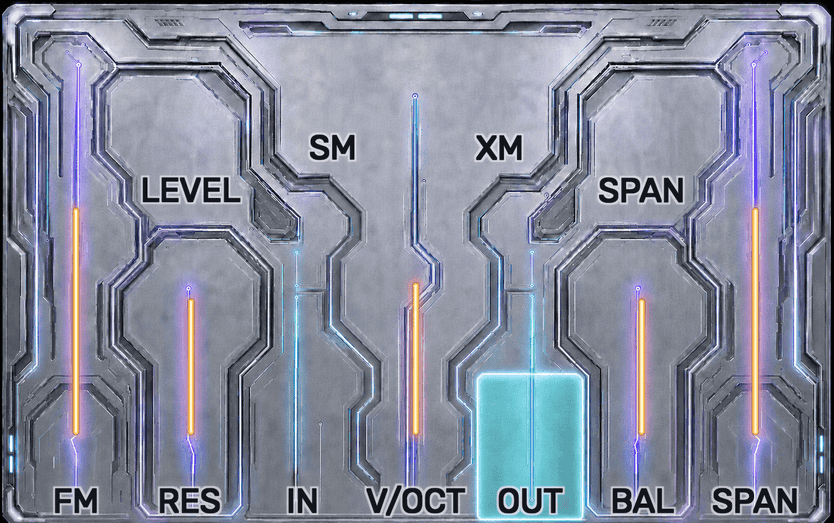
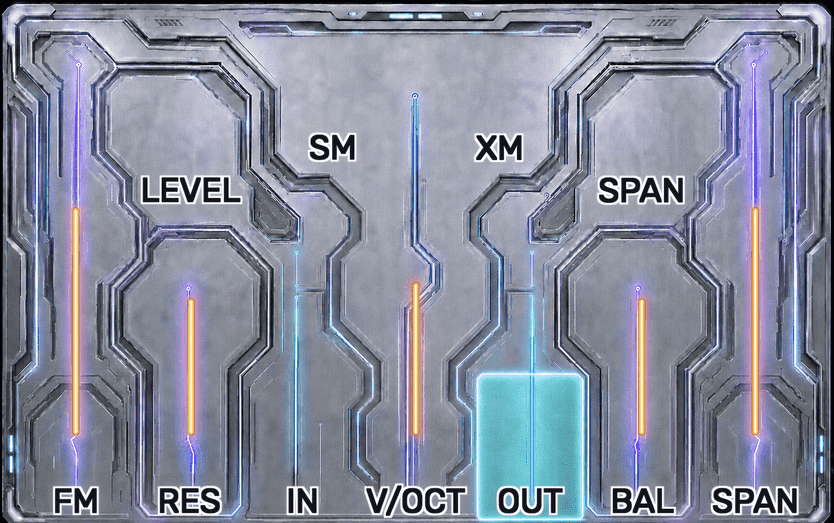
Rework more Chimera panel, add unsplice (seems broken), make bifurx-lb outline brighter

diff --git a/src/Chimera.cpp b/src/Chimera.cpp
@@ -745,6 +745,13 @@ struct Chimera : Module {
         ioBusy.store(true, std::memory_order_release);
         return true;
     }
+    bool requestUnsplice(std::string& error) {
+        std::lock_guard<std::recursive_mutex> controlLock(controlMutex);
+        const unsigned next = publishedRegion.load(std::memory_order_acquire) + 1u;
+        if (next >= publishedMarkerCount.load(std::memory_order_acquire))
+            return true; // The final Splice has no following boundary to remove.
+        return requestMarkerEdit(next, 0, 1u, error);
+    }
     bool requestEdit(const chimera::edit::Request& request, std::string& error) {
         std::lock_guard<std::recursive_mutex> controlLock(controlMutex);
         if (request.kind == chimera::edit::MoveMarker || request.kind == chimera::edit::RemoveMarker)
@@ -1946,6 +1953,9 @@ struct Chimera : Module {
     }
 };
 
+#include "ChimeraDisplay.hpp"
+
+#ifndef CHIMERA_HEADLESS_TEST
 struct ChimeraRatioField : ui::TextField {
     Chimera* owner = nullptr;
     int slot = 0;
@@ -1969,7 +1979,23 @@ struct ChimeraRatioField : ui::TextField {
     }
 };
 
-#include "ChimeraDisplay.hpp"
+// A UI action, rather than a DSP parameter: reuse the control-thread marker
+// queue and its undo history without synthesizing simultaneous button presses.
+struct ChimeraUnspliceButton : SmallGoldButton {
+    Chimera* owner = nullptr;
+    ChimeraUnspliceButton() { momentary = false; }
+    void onButton(const event::Button& e) override {
+        if (e.button == GLFW_MOUSE_BUTTON_LEFT && e.action == GLFW_PRESS)
+            e.consume(this);
+    }
+    void onDragDrop(const event::DragDrop& e) override {
+        if (e.origin != this || !owner) return;
+        std::string error;
+        if (!owner->requestUnsplice(error))
+            osdialog_message(OSDIALOG_ERROR, OSDIALOG_OK, error.c_str());
+        e.consume(this);
+    }
+};
 
 struct ChimeraWidget : ModuleWidget {
     debug_terminal::BaselineWidgetMetrics debugWidgetMetrics;
@@ -2023,9 +2049,12 @@ struct ChimeraWidget : ModuleWidget {
         addParam(createParamCentered<BipolarDarkTinyClockworkGearKnob>(mm2px(point("GENE_ATT_PARAM", Vec(34, 67))), module, Chimera::GENE_ATT_PARAM));
         addParam(createParamCentered<BipolarDarkTinyClockworkGearKnob>(mm2px(point("VARISPEED_ATT_PARAM", Vec(81.12, 67))), module, Chimera::VARISPEED_ATT_PARAM));
         addParam(createParamCentered<BipolarDarkTinyClockworkGearKnob>(mm2px(point("SLIDE_ATT_PARAM", Vec(81.12, 93))), module, Chimera::SLIDE_ATT_PARAM));
-        addParam(createParamCentered<LEDButton>(mm2px(point("REC_PARAM", Vec(60, 103))), module, Chimera::REC_PARAM));
-        addParam(createParamCentered<LEDButton>(mm2px(point("SPLICE_PARAM", Vec(72, 103))), module, Chimera::SPLICE_PARAM));
-        addParam(createParamCentered<LEDButton>(mm2px(point("SHIFT_PARAM", Vec(84, 103))), module, Chimera::SHIFT_PARAM));
+        addParam(createParamCentered<SmallGoldButton>(mm2px(point("REC_PARAM", Vec(60, 103))), module, Chimera::REC_PARAM));
+        addParam(createParamCentered<SmallGoldButton>(mm2px(point("SPLICE_PARAM", Vec(72, 103))), module, Chimera::SPLICE_PARAM));
+        addParam(createParamCentered<SmallGoldButton>(mm2px(point("SHIFT_PARAM", Vec(84, 103))), module, Chimera::SHIFT_PARAM));
+        auto* unsplice = createWidgetCentered<ChimeraUnspliceButton>(mm2px(point("UNSPLICE_BUTTON", Vec(96, 103))));
+        unsplice->owner = module;
+        addChild(unsplice);
         addInput(createInputCentered<Magitek2InputJack>(mm2px(point("SOS_CV_INPUT", Vec(118.24, 67))), module, Chimera::SOS_CV_INPUT));
         addInput(createInputCentered<Magitek2InputJack>(mm2px(point("GENE_SIZE_CV_INPUT", Vec(14, 67))), module, Chimera::GENE_SIZE_CV_INPUT));
         addInput(createInputCentered<Magitek2InputJack>(mm2px(point("VARISPEED_CV_INPUT", Vec(61.12, 67))), module, Chimera::VARISPEED_CV_INPUT));
@@ -2416,3 +2445,6 @@ struct ChimeraWidget : ModuleWidget {
 };
 
 Model* modelChimera = createModel<Chimera, ChimeraWidget>("Chimera");
+#else
+Model* modelChimera = createModel<Chimera, ModuleWidget>("Chimera");
+#endif

diff --git a/tests/chimera_patch_spec.cpp b/tests/chimera_patch_spec.cpp
@@ -17,6 +17,7 @@ bool isDragonKingDebugEnabled() { return false; }
 static std::string checkpointRoot;
 std::string leviathanPluginUserRootPath() { return checkpointRoot; }
 #define CHIMERA_MANUAL_CONTROL_TEST 1 // Deterministic state/ownership fixtures.
+#define CHIMERA_HEADLESS_TEST 1
 #include "../src/Chimera.cpp"
 
 static void need(bool value, const char* message) {
@@ -280,18 +281,38 @@ int main() {
          "explicit pre-record recovery adopts the old audio off thread");
     const auto oldMarkerCount = clone.reel->markerCount();
     need(oldMarkerCount > 1, "marker save fixture has multiple splices");
-    chimera::edit::Request removeMarker;
-    removeMarker.kind = chimera::edit::RemoveMarker;
-    removeMarker.splice = 1;
-    need(clone.requestEdit(removeMarker, error) && clone.markerRequestId,
-         "queue metadata edit immediately before stopped-engine Save");
+    clone.publishedRegion.store(oldMarkerCount - 1);
+    need(clone.requestUnsplice(error) && !clone.markerRequestId,
+         "Unsplice on final splice is a no-op");
+    clone.publishedRegion.store(0);
+    clone.recordingOrArmed.store(true);
+    need(!clone.requestUnsplice(error) && !clone.markerRequestId,
+         "Unsplice is blocked while recording or armed");
+    clone.recordingOrArmed.store(false);
+    const auto framesBeforeUnsplice = clone.reel->validFrames();
+    std::vector<chimera::StereoFrame> audioBeforeUnsplice;
+    for (unsigned frame = 0; frame < framesBeforeUnsplice; ++frame)
+        audioBeforeUnsplice.push_back(clone.reel->readActive(frame));
+    need(clone.requestUnsplice(error) && clone.markerRequestId,
+         "Unsplice queues the following boundary before stopped-engine Save");
     engine.prepareSaveModule(&clone);
     auto markerSave = chimera::bundle::load(cloneStorage, clone.committedManifest, 2);
     need(!clone.markerRequestId && !clone.saveFailure.load() && bool(markerSave) &&
          markerSave.reel->markerCount() == oldMarkerCount - 1 &&
          clone.publishedMarkerCount.load() == oldMarkerCount - 1 &&
+         markerSave.reel->validFrames() == framesBeforeUnsplice &&
          markerSave.reel->readActive(0).l == 42.f,
          "Save drains metadata handoff without audio callbacks and persists updated markers");
+    for (unsigned frame = 0; frame < framesBeforeUnsplice; ++frame) {
+        const auto sample = markerSave.reel->readActive(frame);
+        need(sample.l == audioBeforeUnsplice[frame].l &&
+             sample.r == audioBeforeUnsplice[frame].r,
+             "Unsplice preserves every stereo audio frame");
+    }
+    need(clone.requestUndo(false, error), "Unsplice uses marker undo history");
+    engine.prepareSaveModule(&clone);
+    need(!clone.saveFailure.load() && clone.reel->markerCount() == oldMarkerCount,
+         "marker undo restores the removed boundary");
     json_decref(state);
     engine.removeModule(&clone);
     engine.removeModule(&source);

diff --git a/src/PanelAnchorAtlas.cpp b/src/PanelAnchorAtlas.cpp
@@ -35,9 +35,9 @@ static const SvgAtlasRecord kSvgAtlas[] = {
 	{"res/Cantor.labels.svg", 1715ull, 0x18b5f397f35f477cull, 0.01f},
 	{"res/Cantor.panel.svg", 1888ull, 0xf33d4008adf90fc0ull, 0.01f},
 	{"res/Cantor.svg", 2965ull, 0xfaeaf83236d3cf13ull, 0.01f},
-	{"res/Chimera.labels.svg", 145499ull, 0x41c1d1968ce96860ull, 1.f},
-	{"res/Chimera.panel.svg", 5138ull, 0x66555f9b070a48cfull, 1.f},
-	{"res/Chimera.svg", 12358ull, 0xfc959c19ed956f47ull, 1.f},
+	{"res/Chimera.labels.svg", 151110ull, 0xe4a9c8ace49c6a2aull, 1.f},
+	{"res/Chimera.panel.svg", 5201ull, 0x5ee55ee94a1d73f3ull, 1.f},
+	{"res/Chimera.svg", 12483ull, 0x070c0a0afc3de95cull, 1.f},
 	{"res/chronomaw.svg", 49093ull, 0x825bec682cc4f15full, 0.01f},
 	{"res/crownstep.labels.svg", 58813ull, 0xf9d42ae03f69e5e3ull, 0.00999999978f},
 	{"res/crownstep.panel.svg", 13413ull, 0x9976d29f78839c08ull, 0.00999999978f},
@@ -268,6 +268,7 @@ static const AnchorAtlasRecord kAnchorAtlas[] = {
 	{12, "function_bottom_middle", 3u, 71.12f, 88.25f, 51.62f, 76.f, 39.f, 24.5f, 0.f},
 	{12, "function_bottom_right", 3u, 118.24f, 88.25f, 98.74f, 76.f, 39.f, 24.5f, 0.f},
 	{12, "rect5", 3u, 71.12f, 23.5f, 5.4f, 13.5f, 131.44f, 20.f, 0.f},
+	{12, "UNSPLICE_BUTTON", 5u, 96.f, 103.f, 0.f, 0.f, 0.f, 0.f, 0.1f},
 	{12, "BRANDING_WAVE_LEFT_RASTER", 3u, 48.749839f, 125.94095f, 42.216099f, 123.3819f, 13.06748f, 5.1181002f, 0.f},
 	{12, "BRANDING_WAVE_RIGHT_RASTER", 3u, 93.490482f, 125.94095f, 86.956742f, 123.3819f, 13.06748f, 5.1181002f, 0.f},
 	{12, "BRANDING_LEVIATHAN_LOGO_RASTER", 3u, 71.12f, 125.55129f, 54.760335f, 119.43102f, 32.71933f, 12.24054f, 0.f},
@@ -318,6 +319,7 @@ static const AnchorAtlasRecord kAnchorAtlas[] = {
 	{13, "function_bottom_middle", 3u, 71.12f, 88.25f, 51.62f, 76.f, 39.f, 24.5f, 0.f},
 	{13, "function_bottom_right", 3u, 118.24f, 88.25f, 98.74f, 76.f, 39.f, 24.5f, 0.f},
 	{13, "rect5", 3u, 71.12f, 23.5f, 5.4f, 13.5f, 131.44f, 20.f, 0.f},
+	{13, "UNSPLICE_BUTTON", 5u, 96.f, 103.f, 0.f, 0.f, 0.f, 0.f, 0.1f},
 	{13, "BRANDING_WAVE_LEFT_RASTER", 3u, 48.749839f, 125.94095f, 42.216099f, 123.3819f, 13.06748f, 5.1181002f, 0.f},
 	{13, "BRANDING_WAVE_RIGHT_RASTER", 3u, 93.490482f, 125.94095f, 86.956742f, 123.3819f, 13.06748f, 5.1181002f, 0.f},
 	{13, "BRANDING_LEVIATHAN_LOGO_RASTER", 3u, 71.12f, 125.55129f, 54.760335f, 119.43102f, 32.71933f, 12.24054f, 0.f},

diff --git a/tools/composite_bifurx_bottom.py b/tools/composite_bifurx_bottom.py
@@ -587,15 +587,14 @@ def main() -> int:
         conduit_layers,
         args.supersample,
         fill_color=(18, 20, 25),
-        halo_color=(248, 248, 244),
-        # At Rack's 100% scale a thin dark glyph and bright inner rim collapse
-        # toward the rim color. Give the light-panel glyph a decisive core and
-        # retain the broader feather at lower strength.
+        halo_color=(255, 255, 255),
+        # Keep the original rim width, but make its tight pass fully white so
+        # the dark labels separate cleanly from the light panel at Rack scale.
         fill_expand_px=1.5,
         tight_radius_px=5.0,
         soft_radius_px=10.0,
         wide_radius_px=24.0,
-        tight_opacity=0.48,
+        tight_opacity=1.0,
         soft_opacity=0.28,
         wide_opacity=0.13,
         colors=args.colors,

diff --git a/tests/chimera_module_spec.cpp b/tests/chimera_module_spec.cpp
@@ -35,6 +35,7 @@ Plugin* pluginInstance = nullptr;
 bool isDragonKingDebugEnabled() { return false; }
 std::string leviathanPluginUserRootPath() { return "build/tests/chimera_module_cache"; }
 #define CHIMERA_MANUAL_CONTROL_TEST 1 // Deterministic state/ownership fixtures.
+#define CHIMERA_HEADLESS_TEST 1
 #include "../src/Chimera.cpp"
 
 static void need(bool ok, const char* what) {

diff --git a/tests/chimera_dispatch_spec.cpp b/tests/chimera_dispatch_spec.cpp
@@ -16,6 +16,7 @@ Plugin* pluginInstance = nullptr;
 bool isDragonKingDebugEnabled() { return false; }
 static std::string checkpointRoot;
 std::string leviathanPluginUserRootPath() { return checkpointRoot; }
+#define CHIMERA_HEADLESS_TEST 1
 #include "../src/Chimera.cpp"
 
 static void need(bool value, const char* message) {
